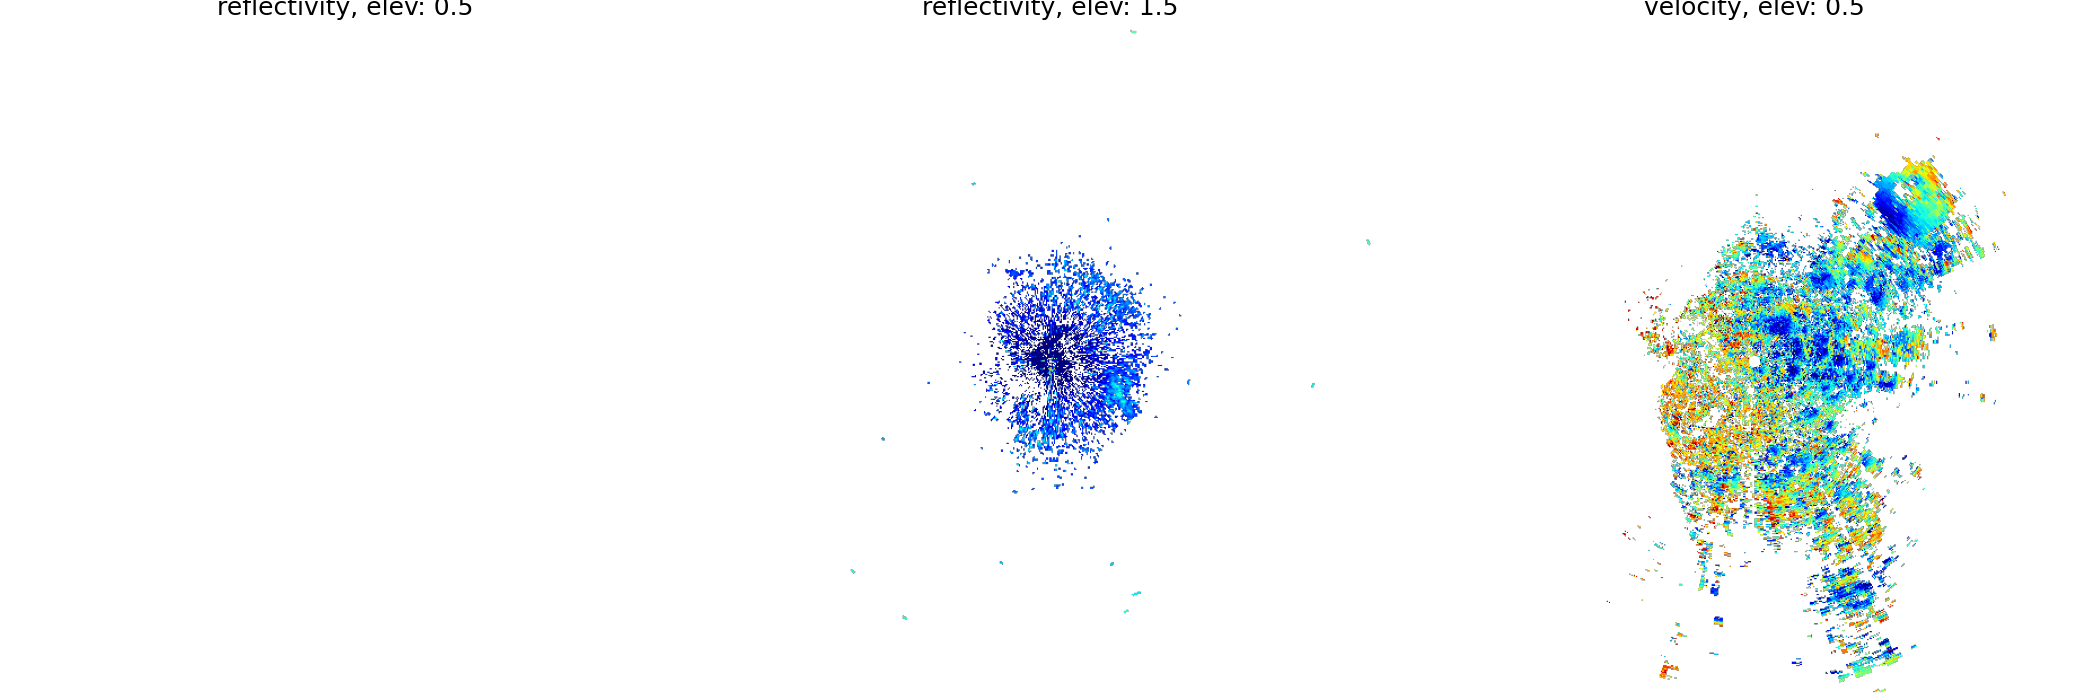
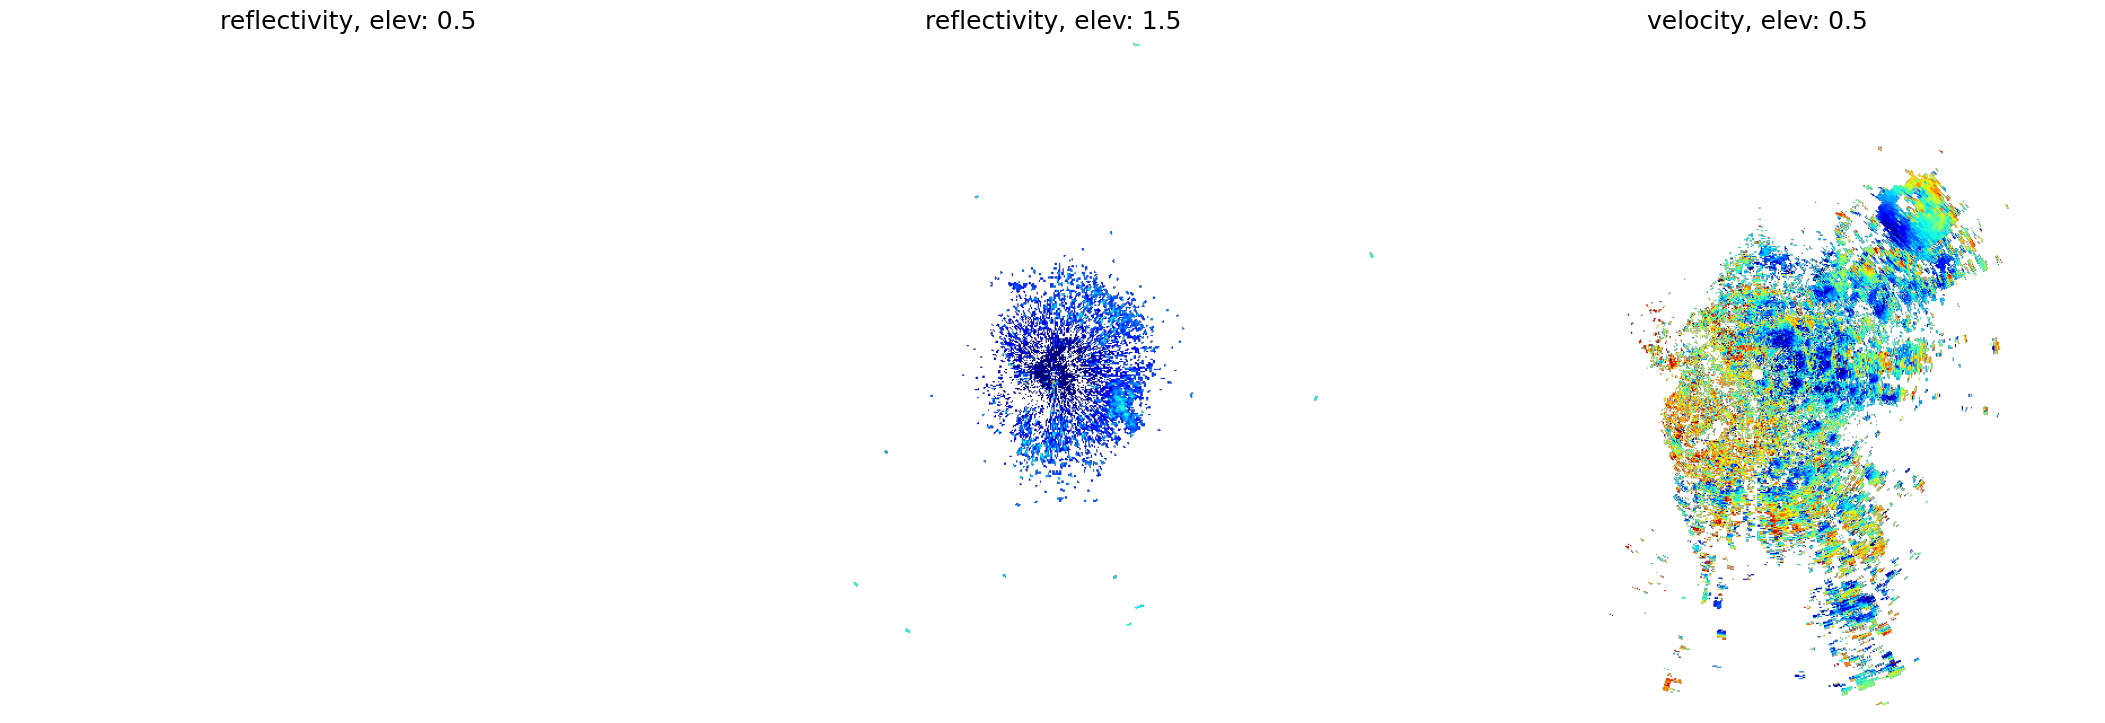
example visualization png

diff --git a/tools/visualization.py b/tools/visualization.py
@@ -90,5 +90,5 @@ for split in SPLIT_PATHS:
         # save
         if not os.path.exists(OUTPUT_DIR):
             os.mkdir(OUTPUT_DIR)
-        fig.savefig(os.path.join(OUTPUT_DIR, SCAN + ".png"))
+        fig.savefig(os.path.join(OUTPUT_DIR, SCAN + ".png"), bbox_inches="tight")
         plt.close(fig)
